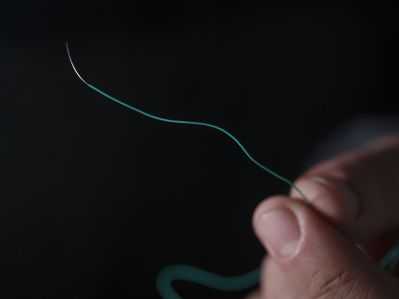
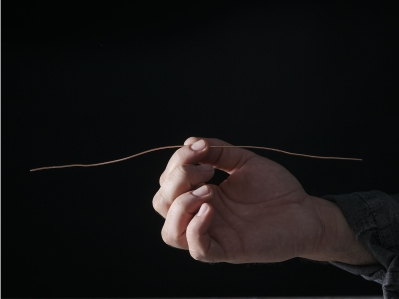
updating lesson 2 content

diff --git a/courses/1-Inventions/Lesson2-HomopolarMotor/lesson.md b/courses/1-Inventions/Lesson2-HomopolarMotor/lesson.md
@@ -1,171 +1,344 @@
-# ELECTROMAGNET
 
 ## About
 
 ### Description
-
-ELECTROMAGNET
+The homopolar motor is a simple electrical machine that converts electrical signals into motion. In fact, it was the first electric motor ever built. This is a unique motor since the circular motion that is produced, is a result of the combination between electric and magnetic fields.
 
 > ![](courses/1-Inventions/lesson1-Electromagnet/assets/image.jpg)
 
-### Time to make
 
 1 Hour 25 Minutes.
 
 ### Materials
 
-- 6 Feet (2 Meters) of Thin Electric wire - Solid (preferably AWG30).
-- 1 AA battery.
-- 1 Large bolt or screwdriver (diameter of at least 0.5mm).
-- Cutter.
-- Cello tape / masking tape / duct tape
+- 1' / 30 cm Of Thin & Solid Electric Wire (Preferably AWG18)
+- 1 AA Battery
+- 3 Rare Earth Magnets (Preferably Neodmiyum)
+- Cutters
+- Cello Tape / Duct Tape
 
 ## Lesson steps
 
 ### Step 1
 
 #### Description
+ 
+Cut a segment of about 1' (30 cm) of electrical wire. Make sure the wire is solid, thick but flexible.
 
-Take the 6 feet (2 meters) of electric wire.
-
-> ![](courses/1-Inventions/lesson1-Electromagnet/assets/step1.jpg)
+> ![](courses/1-Inventions/Lesson2-HomopolarMotor/assets/step1.jpg)
 
 ### Step 2
 
-#### Description
+#### Description 
 
-Using the cutter, pinch the wire’s isolation 0.5” (1 cm) from the wire's end. Be careful not to touch the wire itself, only the plastic cover.
+ Use cutters and fully strip the wire from the isolating coating.
 
-> ![](courses/1-Inventions/lesson1-Electromagnet/assets/step2.jpg)
+> ![](courses/1-Inventions/Lesson2-HomopolarMotor/assets/step2.jpg)
+
+#### Important
+
+A few stripping techniques will be introduced. Choose the one you find most convenient. Begin with holding the cutters in parallel to the wire.
+
+> ![](courses/1-Inventions/Lesson2-HomopolarMotor/assets/extra/step2/extra1.jpg)
+
+#### Important
+
+Cut the coating in parallel to the direction of the wire, avoid cutting the conductive wire itself
+
+> ![](courses/1-Inventions/Lesson2-HomopolarMotor/assets/extra/step2/extra2.jpg)
+
+#### Important
+
+NO TEXT (TEST)
+
+> ![](courses/1-Inventions/Lesson2-HomopolarMotor/assets/extra/step2/extra3.jpg)
+
+#### Important
+
+Repeat cutting in a parallel manner.
+
+> ![](courses/1-Inventions/Lesson2-HomopolarMotor/assets/extra/step2/extra4.jpg)
+
+#### Important
+
+Gradually cut the entire length and peel the coating off.
+
+> ![](courses/1-Inventions/Lesson2-HomopolarMotor/assets/extra/step2/extra5.jpg)
+
+
+#### Important
+
+The second stripping method, requires cutting the isolation coating in perpendicular to the wire's direction. Try to avoid cutting the conductive wire itself..
+
+> ![](courses/1-Inventions/Lesson2-HomopolarMotor/assets/extra/step2/extra6.jpg)
+
+
+#### Important
+
+Create incisions and divide the coating into 2''(5 cm) segments.
+
+> ![](courses/1-Inventions/Lesson2-HomopolarMotor/assets/extra/step2/extra7.jpg)
+
+
+#### Important
+
+NO TEXT (TEST)
+
+> ![](courses/1-Inventions/Lesson2-HomopolarMotor/assets/extra/step2/extra8.jpg)
+
+
+#### Important
+
+Gradually, section by section, peel the isolating coating off.
+
+> ![](courses/1-Inventions/Lesson2-HomopolarMotor/assets/extra/step2/extra9.jpg)
+
+
+#### Important
+
+Repeat this process until the wire is fully exposed.
+
+> ![](courses/1-Inventions/Lesson2-HomopolarMotor/assets/extra/step2/extra10.jpg)
+
+
 
 ### Step 3
 
 #### Description
 
-With a pulling motion peel 0.5” (1 cm) of the cover off the wire until it is fully exposed.
+The conductive wire should be fully exposed
 
-> ![](courses/1-Inventions/lesson1-Electromagnet/assets/step3.jpg)
+> ![](courses/1-Inventions/Lesson2-HomopolarMotor/assets/step3.jpg)
 
-#### Important
 
-With a pulling motion peel 0.5” (1 cm) of the cover off the wire until it is fully exposed.
-
-> ![](courses/1-Inventions/lesson1-Electromagnet/assets/extra/step3/extra.jpg)
 
 ### Step 4
 
 #### Description
 
-Repeat process on the other end of the wire.
+Use needle-nose pliers, avoid mistakenly using cutters. Bend the wire at the center. Try to be as accurate as possible and fold the wire in two.
 
-> ![](courses/1-Inventions/lesson1-Electromagnet/assets/step4.jpg)
+> ![](courses/1-Inventions/Lesson2-HomopolarMotor/assets/step4.jpg)
 
-#### Important
 
-See that the wire is solid. Solid wire has only one lead and is rigid, compared to stranded wire which has multiple leads and is more flexible. Solid wires work better for high voltage applications, while stranded wires work better for low voltage applications.
-
-> ![](courses/1-Inventions/lesson1-Electromagnet/assets/extra/step4/extra.jpg)
 
 ### Step 5
 
 #### Description
 
-Start wrapping the wire around the bolt starting 1” (3 cm) down the wire.
+Bend the wire, forming a V shape.
 
-> ![](courses/1-Inventions/lesson1-Electromagnet/assets/step5.jpg)
+> ![](courses/1-Inventions/Lesson2-HomopolarMotor/assets/step5.jpg)
+
+#### Important
+
+Using the needle-nose pliers allows squeezing the wire tighter together.
+
+> ![](courses/1-Inventions/Lesson2-HomopolarMotor/assets/extra/step3/extra.jpg)
+
 
 ### Step 6
 
 #### Description
 
-Starting from the bolt’s head, wrap the wire around the bolt firmly, creating windings as close as possible to one another. Try not to overlap, though.
+Grip the wire with the needle-nose pliers about 0.25'' (5 mm) from the vertex you have just created and bend the wire outwards.
 
-> ![](courses/1-Inventions/lesson1-Electromagnet/assets/step6.jpg)
+> ![](courses/1-Inventions/Lesson2-HomopolarMotor/assets/step6.jpg)
 
 #### Important
 
-If gaps are created between wire windings, you can always press down the wire, diminishing them with your fingers.
+sketch (test) 
 
-> ![](courses/1-Inventions/lesson1-Electromagnet/assets/extra/step6/extra.jpg)
+> ![](courses/1-Inventions/Lesson2-HomopolarMotor/assets/extra/step6/extra.jpg)
 
 ### Step 7
 
 #### Description
 
-When you reach the end of the bolt, start wrapping the wire the other way. Now there is no problem with overlapping.
+Repeat on the other side of the wire.
 
-> ![](courses/1-Inventions/lesson1-Electromagnet/assets/step7.jpg)
+> ![](courses/1-Inventions/Lesson2-HomopolarMotor/assets/step7.jpg)
 
 ### Step 8
 
 #### Description
 
-Continue wrapping the wire. Leave 1” (3 cm) of unwrapped wire on the other end as well.
+"Bend the wire again, 1'' (3 cm) from the previous bending point. Twist the wire 90 degrees inwards.
 
-> ![](courses/1-Inventions/lesson1-Electromagnet/assets/step8.jpg)
+> ![](courses/1-Inventions/Lesson2-HomopolarMotor/assets/step8.jpg)
 
 ### Step 9
 
 #### Description
 
-Using a piece of tape, secure the coil you created onto the bolt.
+Repeat on the other side of the wire
 
-> ![](courses/1-Inventions/lesson1-Electromagnet/assets/step9.jpg)
+> ![](courses/1-Inventions/Lesson2-HomopolarMotor/assets/step9.jpg)
+
 
 ### Step 10
 
 #### Description
 
-Using another piece of tape, attach the AA battery to the bolt.
+"Take an AA battery and 3 round rare-earth magnets.
 
-> ![](courses/1-Inventions/lesson1-Electromagnet/assets/step10.jpg)
+> ![](courses/1-Inventions/Lesson2-HomopolarMotor/assets/step10.jpg)
+
+#### Important
+
+Rare-earth magnets are the strongest type of magnets, made out of alloys of rare earth elements. They produce significantly stronger magnetic fields in comparison to other types of magnets.
+
+
+
 
 ### Step 11
 
 #### Description
 
-Connect the nearest end of the wire to the battery's negative terminal.
+Place the magnets on the battery's negative terminal
 
-> ![](courses/1-Inventions/lesson1-Electromagnet/assets/step11.jpg)
+> ![](courses/1-Inventions/Lesson2-HomopolarMotor/assets/step11.jpg)
+
 
 ### Step 12
 
 #### Description
 
-Secure it with a small piece of tape.
+Balance the tip of the wire on the battery's positive terminal.
 
-> ![](courses/1-Inventions/lesson1-Electromagnet/assets/step12.jpg)
+> ![](courses/1-Inventions/Lesson2-HomopolarMotor/assets/step12.jpg)
+
 
 ### Step 13
 
 #### Description
 
-Congratulations! You have just built an electromagnet – your first creation.
+Identify the point on the wire that is the same height as the second magnet.
 
-> ![](courses/1-Inventions/lesson1-Electromagnet/assets/step13.jpg)
+> ![](courses/1-Inventions/Lesson2-HomopolarMotor/assets/step13.jpg)
 
 #### Important
 
-An electromagnet is a type of magnet in which the magnetic field is induced by electric current. In a regular magnet the material itself produces a magnetic field and not an electric current.
+Identify this point by drawing an imaginary line from the middle magnet at the end of the battery, leading to the wire.
+
 
 ### Step 14
 
 #### Description
 
-Hold the bolt in the air and bring the loose wire end to the battery’s positive terminal.
+Bend the wire 90 degrees inwards.
 
-> ![](courses/1-Inventions/lesson1-Electromagnet/assets/step14.jpg)
+> ![](courses/1-Inventions/Lesson2-HomopolarMotor/assets/step14.jpg)
+
 
 ### Step 15
 
 #### Description
 
-Use the end of the bolt to pick metallic paper clips. Can you chain paper clips to one another, transferring magnetic field through a chain of paper clips?
+Repeat on the other side of the wire.
 
-> ![](courses/1-Inventions/lesson1-Electromagnet/assets/step15.jpg)
+> ![](courses/1-Inventions/Lesson2-HomopolarMotor/assets/step15.jpg)
+
+
+### Step 16
+
+#### Description
+
+Make sure the bended wire is at the height of the middle magnet, repair if necessary.
+
+> ![](courses/1-Inventions/Lesson2-HomopolarMotor/assets/step16.jpg)
+
+### Step 17
+
+#### Description
+
+Manually bend the wire so that it is loosely wrapped around the middle magnet.
+
+> ![](courses/1-Inventions/Lesson2-HomopolarMotor/assets/step17.jpg)
+### Step 18
+
+#### Description
+
+NO TEXT 
+
+> ![](courses/1-Inventions/Lesson2-HomopolarMotor/assets/step18.jpg)
+
+### Step 19
+
+#### Description
+
+Repeat on the other side of the wire.
+
+> ![](courses/1-Inventions/Lesson2-HomopolarMotor/assets/step19.jpg)
+
+
+### Step 20
+
+#### Description
+
+Make sure that the wire is only touching the magnet lightly and not applying any pressure.
+
+> ![](courses/1-Inventions/Lesson2-HomopolarMotor/assets/step20.jpg)
+
+### Step 21
+
+#### Description
+
+Cut the excess wire on both sides.
+
+> ![](courses/1-Inventions/Lesson2-HomopolarMotor/assets/step21.jpg)
+
+### Step 22
+
+#### Description
+
+NO TEXT 
+
+> ![](courses/1-Inventions/Lesson2-HomopolarMotor/assets/step22.jpg)
+
+
+### Step 23
+
+#### Description
+
+Balance the wire's tip on the battery's positive terminal.
+
+> ![](courses/1-Inventions/Lesson2-HomopolarMotor/assets/step23.jpg)
+
 
 #### Important
 
-What has just happened here? When both ends of the wire are connected to the battery, electric current starts flowing through the wire. The electric current generates a small magnetic field around it. The coil you created around the bolt allowed all the small fields to accumulate into a larger magnetic field and temporarily magnetize the bolt, allowing it to attract small metallic paper clips.
+As a result of the current running through the circuit, the battery might warm up and runtime may shorten.
 
-> ![](courses/1-Inventions/lesson1-Electromagnet/assets/extra/step15/extra.jpg)
+
+
+### Step 24
+
+#### Description
+
+And watch it spin
+
+> ![](courses/1-Inventions/Lesson2-HomopolarMotor/assets/step24.jpg)
+
+#### Important
+
+This motor generates motion with the use of electrically charged particles in a magnetic field. Current flows through the wire, meaning electrons are moving in a certain direction along the wire. Since the wire is placed in a magnetic field, the electrons are affected by a force vigorously moving them in a different direction and therefore creating the accelerating movement of the coil. This basic law of physics is called the Lorentz force. Although the motion generating principles at the base of the Homopolar Motor are simple, it is are rarely used nowadays as it is an inefficient motor- requiring large current flow and producing relatively small forces.
+
+> ![](courses/1-Inventions/Lesson2-HomopolarMotor/assets/extra/step24/extra.jpg)
+
+
+### Step 25
+
+#### Description
+
+Add your personal touch by decorating the wire
+
+> ![](courses/1-Inventions/Lesson2-HomopolarMotor/assets/step25.jpg)
+
+
+#### Important
+
+Make sure that the ornaments you add are light weight and well balanced.
+
+
+
